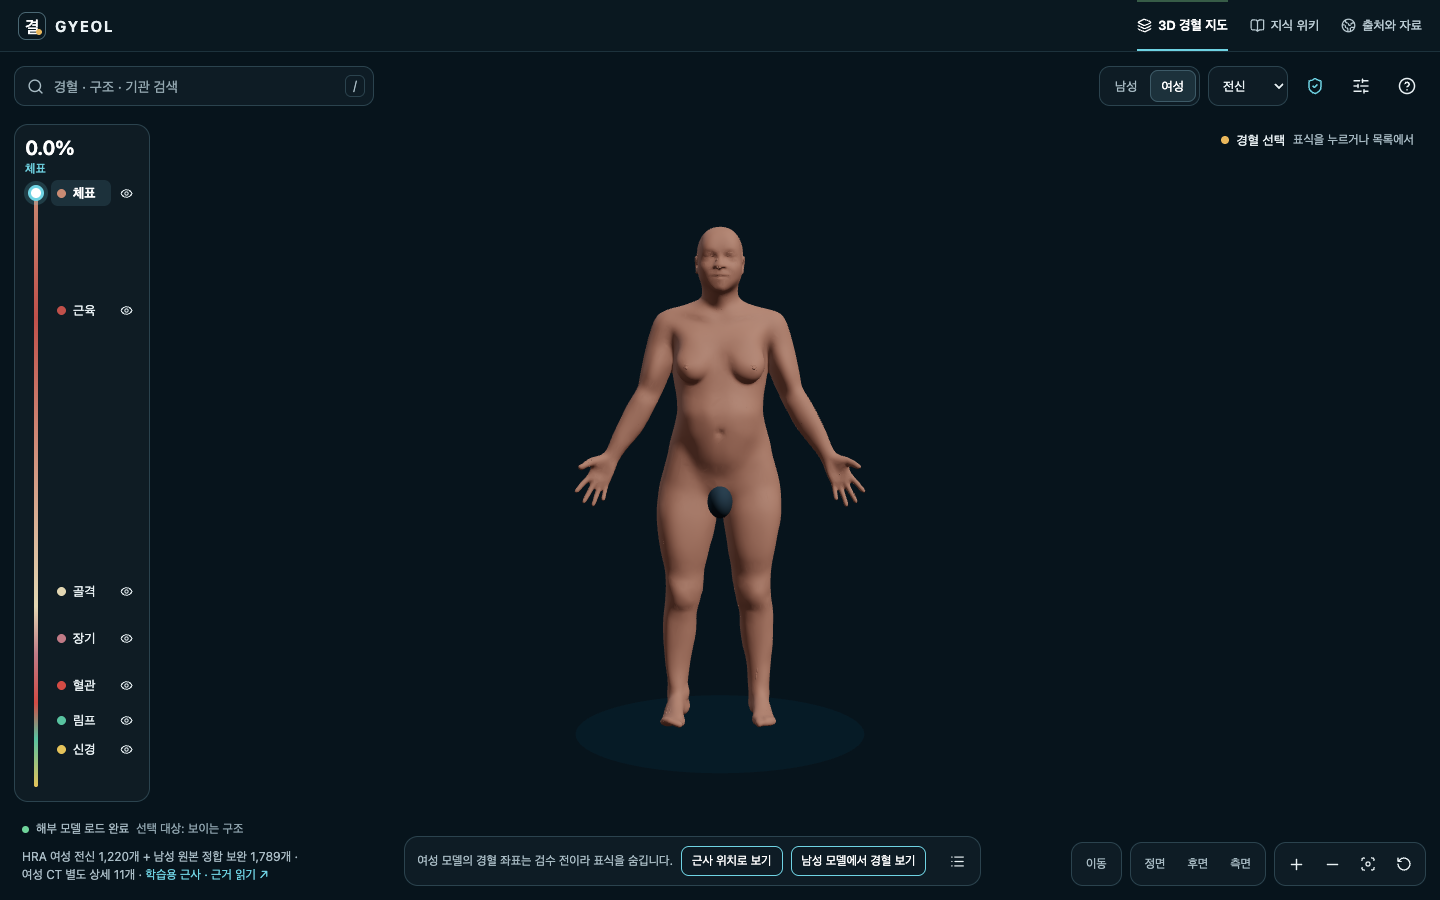
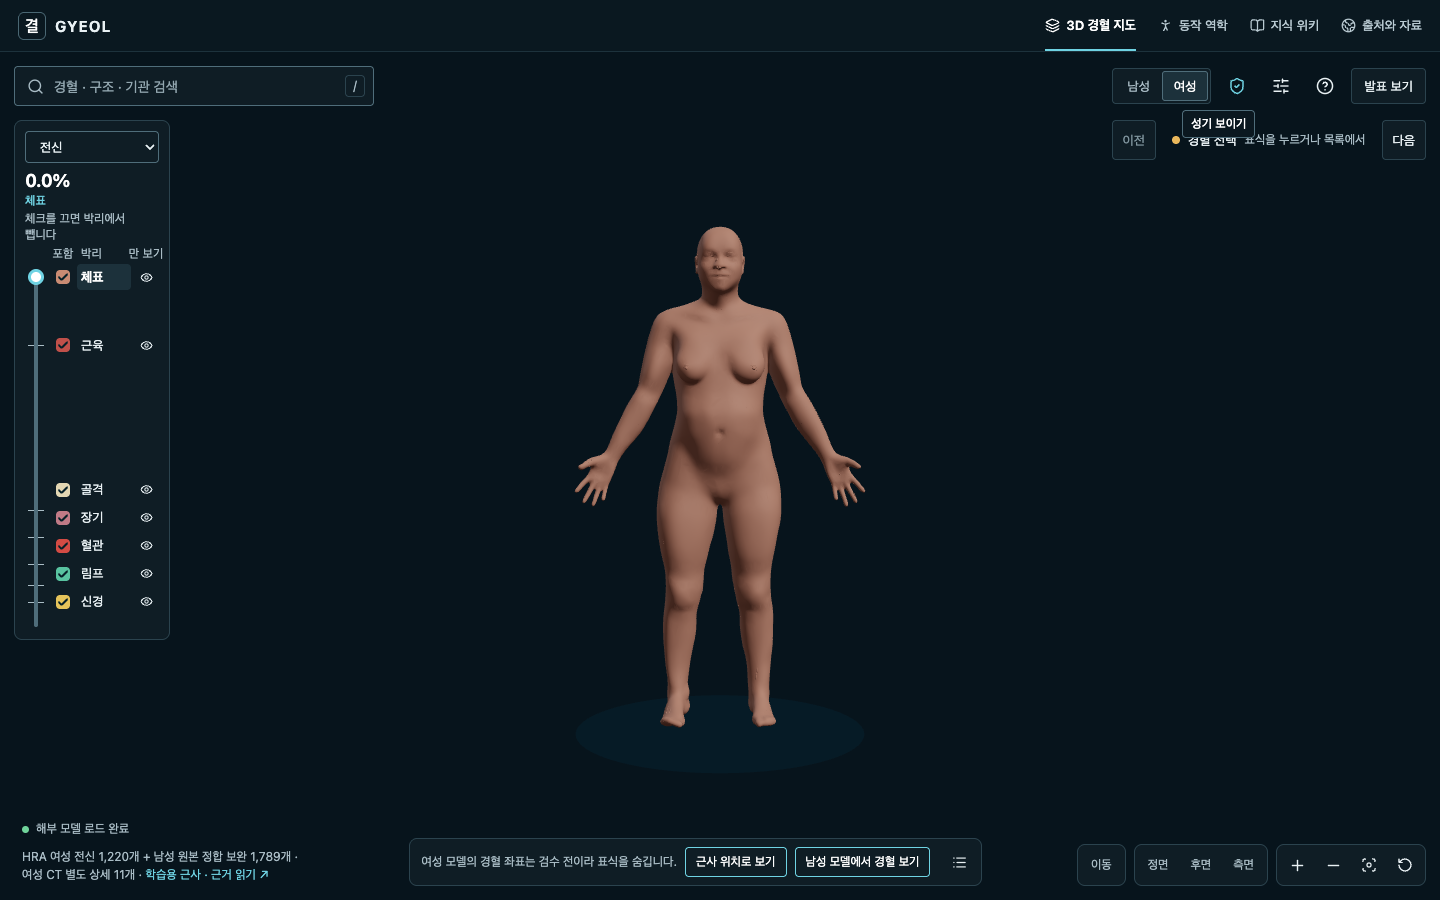
Record public check of the default genital hiding
GitHub Pages deployed 428781a. On https://jay-jang.github.io/gyeol-atlas/
the public smoke passed (409 points, static search, no model requests
on the wiki and movement pages, female 1,220 + 1,789 carried, brain 283,
male heart 83) and the overlay audit passed at 8 viewports, 94 states.
check-female-transport-pages passed on desktop and phone: the genitals
start hidden with the shield pressed, stay shown after the shield and a
reload, and the carried structures, approximate markers and colon
comparison still work. At 1440x900 and 390x844 the public atlas drew
the closed male groin by default with none of seven sampled genital
meshes visible, showed all seven after the shield, and gave LR10 its
moved-marker note, with no page errors, 4xx or sideways scroll.

diff --git a/docs/anatomy-alignment/MODESTY_DEFAULT.md b/docs/anatomy-alignment/MODESTY_DEFAULT.md
@@ -135,3 +135,17 @@ node scripts/modesty/export.mjs                                   # 입력을 .c
   - Codex 1라운드 조건부 승인. 주요 1건은 주변 메시를 화면과 다른 좌표에서 검사한 것(위 3절, 고침). 경미 3건은 LR10·LR11 카드 문구(추가), 휴대폰 화면 확인(위), 이 기록 마무리였습니다. 2라운드 승인(남은 차단·주요 없음, 검사를 직접 다시 돌림).
   - AGY(사용자 요청대로 Gemini 3.8 Flash high) 승인, 차단·주요 없음. 인용한 검사 수치가 좌표 수정 전 값이라 Codex 결과에 더 무게를 둡니다.
 - **확인하지 못한 것**: 실기기 Safari·VoiceOver. 공개 배포 확인은 푸시 뒤에 합니다.
+
+## 공개 배포 확인(2026-10-28)
+커밋 `428781a` 푸시 뒤 GitHub Pages(https://jay-jang.github.io/gyeol-atlas/)에서 확인했습니다. 페이지 오류·4xx·가로 넘침은 0입니다.
+- **공개 스모크**: 경혈 409개, 정적 검색, 위키·동작 페이지의 모델 요청 0, 여성 1,220개, 여성 정합 보완 1,789개, 뇌 283개, 남성 심장 83개.
+- **`scripts/check-female-transport-pages.mjs`**: 데스크톱·모바일 모두 통과했습니다.
+  - 처음 열면 가린 상태이고 방패가 눌려 있습니다.
+  - 방패를 누른 뒤 새로고침해도 보이는 상태가 유지됩니다.
+  - 여성 보완 구조 1,789개가 표시되고, 근사 표식과 대장 비교(6개 구조)도 그대로입니다.
+- **공개 화면의 성기 가리기**(데스크톱 1440×900, 휴대폰 390×844):
+  - 처음 열면 `data-modesty=hidden`이고 닫힌 피부가 그려집니다. 표본으로 고른 외부생식기·혈관·신경 7개는 하나도 보이지 않습니다.
+  - 방패를 누르면 7개가 모두 보이고, 닫힌 피부는 원래 피부로 돌아갑니다.
+  - LR10 카드에 옮긴 표식 안내가 나옵니다.
+  - 화면: [데스크톱](pages-modesty-groin-desktop.png), [휴대폰](pages-modesty-groin-mobile.png).
+- **겹침 감사**: 8화면, 94상태에서 통과했습니다.

diff --git a/docs/VERIFICATION.md b/docs/VERIFICATION.md
@@ -13,6 +13,7 @@
 - **검사**: 단위 497/497, 빌드, 프로덕션 스모크, 전체 브라우저 177/177(그 뒤 문구 추가는 3/3), 박리 기하 감사(위치 변화 0m), 근육 박리 감사, 겹침 감사 8화면 94상태, 가독성 155표본, 시각 게이트 4화면, 생성기 검사·재생성 바이트 일치. 실패한 검사는 없었습니다.
 - **한계**: 닫는 면은 해부가 아닌 편집 표시 면이고 그 뒤 옛 공기 약 32cm³를 막습니다. 고환 혈관·정관·요도는 배 안 경로까지 통째로 숨습니다. LR10·LR11은 만든 면 위의 편집 배치입니다. 직접 고른 생식 구조는 닫힌 피부 밖에 보입니다. 실기기 Safari·VoiceOver는 확인하지 않았습니다.
 - **기록**: [설계·측정·한계](anatomy-alignment/MODESTY_DEFAULT.md)
+- **공개 배포 확인**: 커밋 `428781a` 푸시 뒤 GitHub Pages에서 공개 스모크, 여성·성기 가리기 확인(데스크톱·모바일), 겹침 감사(8화면 94상태)를 통과했습니다. 공개 아틀라스를 1440×900과 390×844에서 열었을 때, 처음에는 사타구니가 닫힌 피부로 그려지고 외부생식기 표본 7개가 보이지 않았습니다. 방패를 누르면 모두 보였습니다. 페이지 오류·4xx·가로 넘침은 0입니다([기록](anatomy-alignment/MODESTY_DEFAULT.md#공개-배포-확인2026-10-28)).
 
 # 이전 검토: 2026-10-26
 

diff --git a/docs/anatomy-alignment/FEMALE_ORGANS_AND_APPROXIMATIONS.md b/docs/anatomy-alignment/FEMALE_ORGANS_AND_APPROXIMATIONS.md
@@ -267,3 +267,5 @@ WHO 2008의 비례촌은 각 사람의 표지 사이를 나눠 정의합니다. 
 - 경혈 재계산 독립 검증(별도 에이전트, 자체 스크립트로 재측정):
   - 1라운드는 ‘수정 후 출시’였고, 같은 높이 이웃과 반대쪽 면 표식 문제를 2라운드에서 고쳤습니다.
   - 2라운드도 ‘수정 후 출시’였습니다. 배치·전사·재현성(바이트 동일)은 맞았으나 가슴 관계 9건, ST31–ST32 간격, GB28 해석, 위앞엉덩뼈가시 허용치, 비스듬한 면 23개가 기록되지 않았습니다. 모두 검사·기록·카드에 반영했습니다.
+
+공개 배포 확인(2026-10-28): 이 작업은 성기 가리기 기본값과 함께 커밋 `428781a`로 배포했습니다. GitHub Pages에서 공개 스모크(여성 1,220개, 여성 정합 보완 1,789개, 뇌 283개)와 `scripts/check-female-transport-pages.mjs`(데스크톱·모바일, 근사 표식·대장 비교 포함)를 통과했고, 페이지 오류는 0입니다([성기 가리기 기록](MODESTY_DEFAULT.md#공개-배포-확인2026-10-28)).
